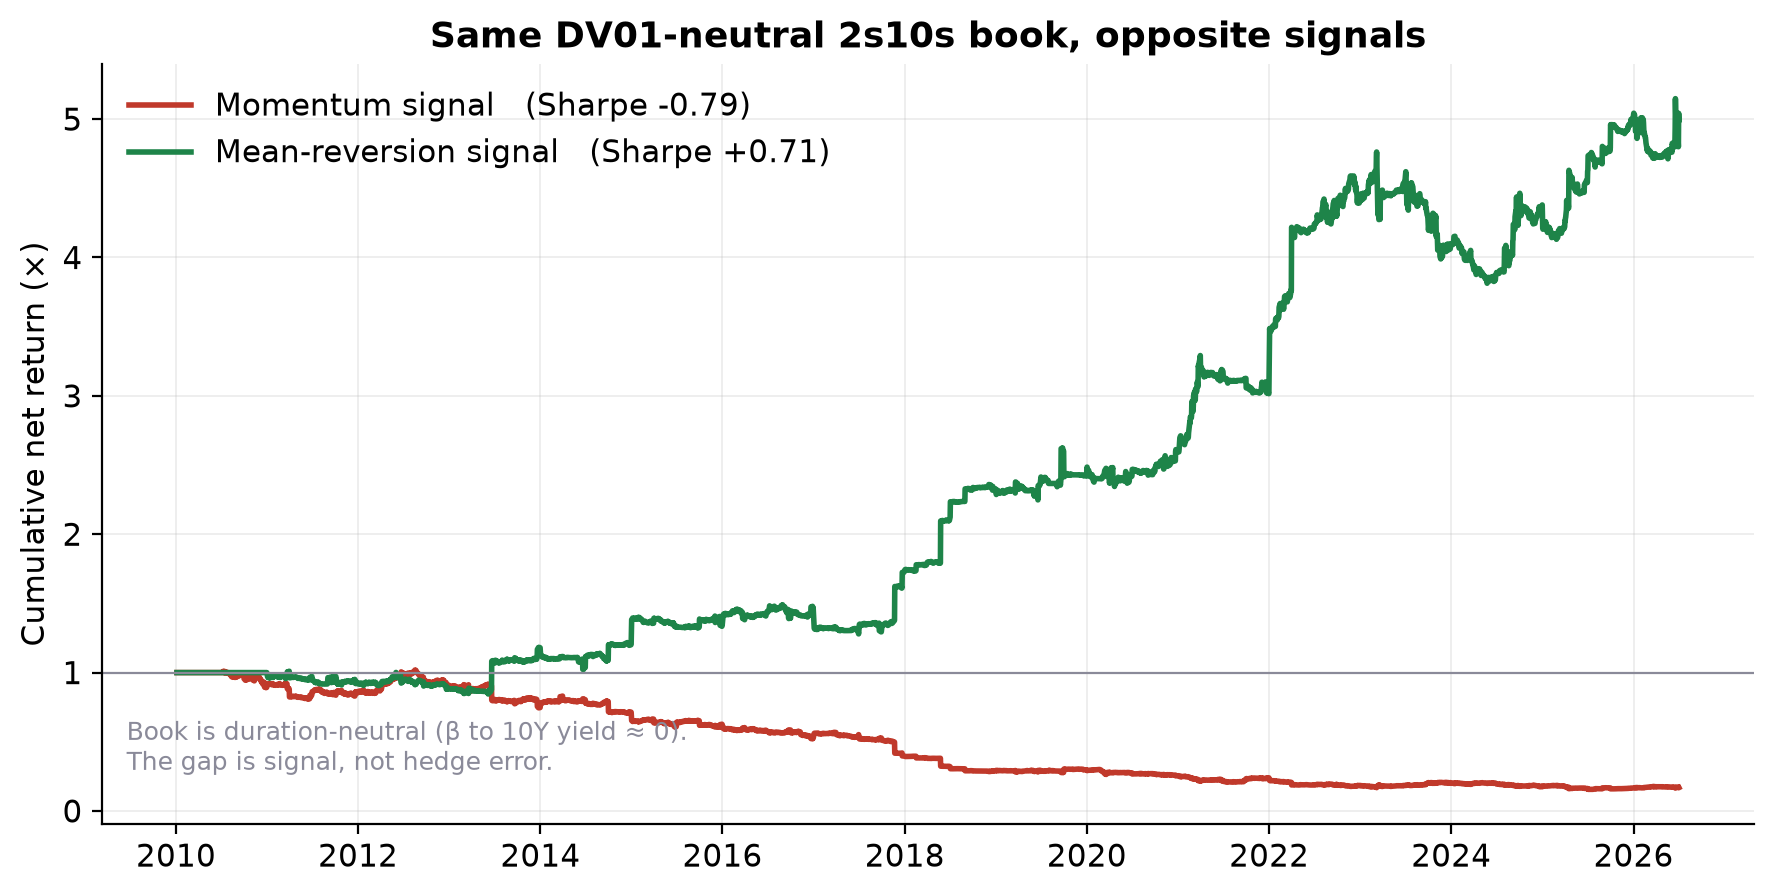
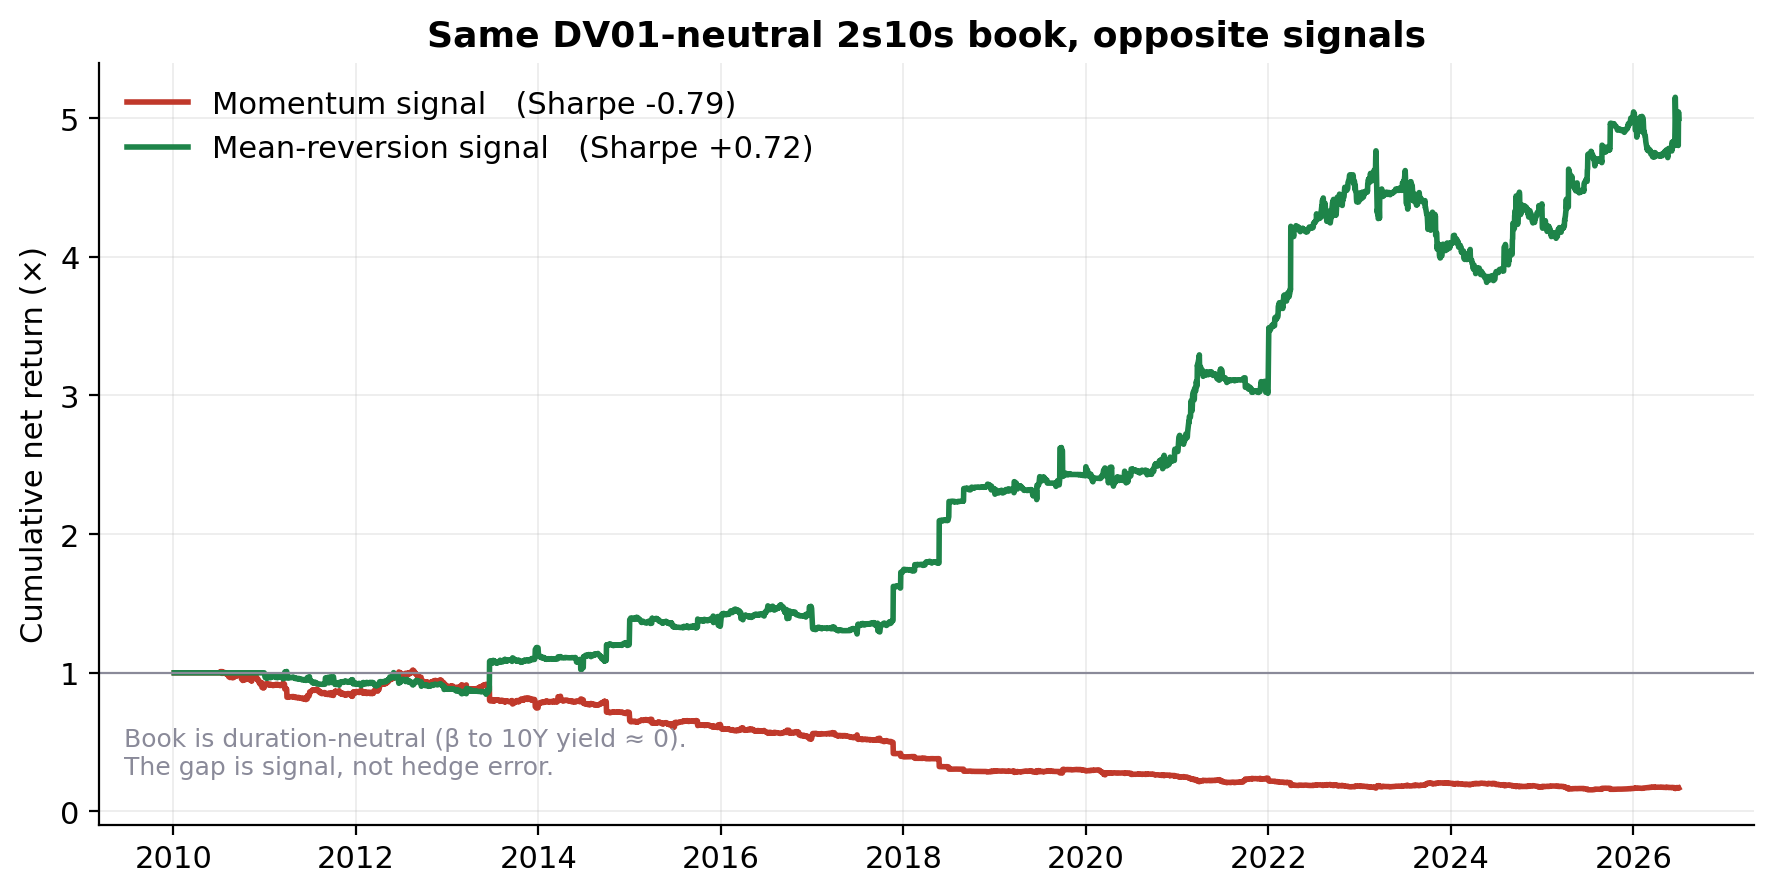
Docs: use the rerun figures, describe the cost model as coded, and state what the history can show

diff --git a/README.md b/README.md
@@ -30,24 +30,27 @@ a DV01-scaled 2-year leg. Only the signal differs:
 | Signal on the identical 2s10s book | Net Sharpe |
 |---|---|
 | Momentum | **−0.79** |
-| Mean-reversion | **+0.71** |
+| Mean-reversion | **+0.72** |
 
-The book's P&L has a regression slope of −0.001 on the 10-year yield change, i.e.
-it is genuinely duration-neutral. The gap is signal, not hedge error.
+A regression of the book's daily P&L on the daily change in the 10-year yield gives a
+slope of about −0.001, so the book is close to duration-neutral and the gap comes from the
+signal. No script in the repository stores that regression.
 
-## Results (2010–2026, net of costs, vol-scaled to 10%)
+## Results (2010–2026, net of costs, 10% volatility target)
 
 | Strategy | Sharpe | Max DD | Turnover/yr |
 |---|---|---|---|
 | Duration momentum (baseline) | 0.68 | −23% | 22 |
-| 2s10s mean-reversion | 0.71 | −20% | 104 |
+| 2s10s mean-reversion | 0.72 | −20% | 104 |
 | 5s30s mean-reversion | 0.66 | −27% | 68 |
-| 2s5s10s butterfly | 0.07 | −38% | 87 |
+| 2s5s10s butterfly | 0.08 | −38% | 87 |
 
 ![Equity curves](results/fig2_equity_curves.png)
 
-Against the baseline, HAC Diebold–Mariano gives DM = 0.83 (p = 0.41) for 2s10s and
-0.68 (p = 0.49) for 5s30s. **Neither is statistically significant.** The honest
+Realised volatility of the net returns runs from 11.8% to 16.1%, above the 10% target.
+
+Against the baseline, HAC Diebold–Mariano gives DM = 0.84 (p = 0.40) for 2s10s and
+0.69 (p = 0.49) for 5s30s. **Neither is statistically significant.** The honest
 reading: outright duration momentum is the workhorse, curve mean-reversion is a
 legitimate and roughly co-equal source of return that does not demonstrably beat
 it, and the butterfly is not supported.
@@ -61,13 +64,14 @@ it, and the butterfly is not supported.
   regression proxy.
 - **No lookahead**: signals use t−1 data, execution at t settle, monthly rebalance,
   126-day warm-up, leverage capped at 3×.
-- **Costs**: one tick per contract per side, using each contract's own tick size
-  from the `*_STATIC` export (the 10-year tick was halved during the sample). The
-  same cost model drives the table above and every figure — see the correction below.
+- **Costs**: one tick per contract per side. The code applies each root's most recent
+  tick size and settle price from the `*_STATIC` export to the whole sample. That
+  understates the 2-year note's cost before 2019, when its tick was twice as large; the
+  other contracts' ticks did not change during the sample. The same cost model drives the
+  table above and every figure (see the correction below).
 - **Inference**: Diebold–Mariano with Newey–West (Bartlett) long-run variance at a
   21-day lag spanning the holding period, plus the Harvey–Leybourne–Newbold
-  small-sample correction. Cross-checked against a HAC-robust OLS of the
-  differential on a constant; statistics agree to two decimals.
+  small-sample correction.
 
 ## Repository layout
 
@@ -75,10 +79,10 @@ it, and the butterfly is not supported.
 notebooks/   treasury_curve_pipeline.ipynb   runs top-to-bottom from a folder of CSVs
 scripts/     make_figures.py                 redraws the figures from that same run
 paper/       IEEE-format paper (PDF + LaTeX source)
-results/     figures + exported macro regime series
+results/     figures
 bloomberg/   VBA exporters and the export checklist (how to pull the inputs yourself)
 carry/       carry extension: protocol, results, figures and reproduction code
-walkforward/ pre-registered regime walk-forward of the curve signals, code and result tables
+walkforward/ regime walk-forward of the curve signals: plan, code and result tables
 cross_country/ cross-country rates relative value (US, DE, JP, CA): code, public-data cache, results
 DATA.md      input schema, tickers, and the free-data route
 ```
@@ -103,11 +107,10 @@ no manual steps.
 
 **The committed notebook is source only: it ships deliberately with no stored cell outputs.**
 Executing it requires the licensed Bloomberg CSV exports, and saved outputs would embed that
-vendor data in a public repository. It is a reproduction notebook, not an executed record. The
-numbers in the tables above were produced by running it locally against the original exports on
-2026-08-21 and again on 2026-08-23; both runs reproduced every figure exactly (Sharpe 0.68 / 0.71 /
-0.66 / 0.07; DM 0.83 p 0.405, 0.68 p 0.494). To reproduce them yourself you need terminal access, or
-the free-data route in `DATA.md`.
+vendor data in a public repository. The numbers in the tables above are from a run on
+17 November 2026 against those exports. Two of them sit on a rounding boundary: the 2s10s Sharpe
+is 0.7150 and the butterfly 0.0755, and the August 2026 runs behind the paper printed 0.71 and
+0.07. To reproduce them yourself you need terminal access, or the free-data route in `DATA.md`.
 
 Regenerate the figures from the same run with:
 
@@ -155,10 +158,11 @@ is the fix.
 ## Known limitations
 
 - The mean-reversion direction for the curve was first confirmed on the full sample. A
-  pre-registered walk-forward test (`walkforward/PREREG.md`) now fits the direction and the
-  z-score lookback in one policy regime and trades them in the next, over the same four
-  regimes as global-rates-rv. Mean-reversion was chosen in all six fits, and both spreads are
-  positive in all three test regimes: 2s10s net Sharpe 0.89 / 0.93 / 0.85, pooled 0.87 over
+  walk-forward test now fits the direction and the z-score lookback in one policy regime and
+  trades them in the next, over the same four regimes as the cross-country study. Its plan is
+  in `walkforward/PREREG.md`; the plan and the results share one commit, so the history does
+  not show which came first. Mean-reversion was chosen in all six fits, and both spreads are
+  positive in all three test regimes: 2s10s net Sharpe 0.89 / 0.92 / 0.85, pooled 0.87 over
   2015-2026; 5s30s 0.77 / 1.28 / 0.38, pooled 0.69. Duration momentum earns 0.74 on the same
   dates, and Diebold-Mariano against it is not significant (2s10s DM 0.95, p 0.34; 5s30s DM
   0.61, p 0.54). So the curve result holds out of sample, but it still does not demonstrably
@@ -171,13 +175,12 @@ is the fix.
 Carry is the obvious third premium in this literature, and this repository originally scoped it as
 future work. It was tested. **It failed, and it is not part of the headline result.**
 
-The protocol, acceptance criteria and instrument-inclusion rule were fixed in a commit that
-precedes the results commit, so the bar can be audited rather than taken on trust:
-
-```
-a3d7f83  field feasibility, carry definition, and research protocol   <- criteria fixed here
-d1ab1e7  implementation and results - carry fails the protocol
-```
+The protocol, acceptance criteria and instrument-inclusion rule were written before the
+results. In the original commit history the research plan, with the bars in the table below,
+was committed at 14:24 on 24 August 2026 with no implementation, and the implementation and
+results at 20:57 the same day. That history was squashed when the repository was cleaned on
+13 November 2026. The plan and the results now share commit `5836a04`, so the order cannot be
+checked from this repository; the original commits are kept offline.
 
 | Test | Bar | Result | |
 |---|---|---|---|
@@ -186,10 +189,12 @@ d1ab1e7  implementation and results - carry fails the protocol
 | Added as a third portfolio sleeve | ≥ +0.10 Sharpe | **0.871 → 0.714**, drawdown **−15.1% → −21.1%** | fails |
 
 **Why it fails is the interesting part.** Cross-sectional bond-futures carry is largely a duration
-ranking in disguise — the rank correlation between carry and DV01 is **+0.51**, and mean carry rises
-monotonically with tenor. In an upward-sloping curve "high carry" mechanically means "long
-duration". DV01-neutralise the book, as the protocol requires, and roughly 85% of its volatility
-disappears with the duration bet; what remains has no alpha.
+ranking in disguise: the rank correlation between carry and DV01 is **+0.51**, and mean carry rises
+with tenor overall, though not at every step (TU 0.22, FV 0.90, TY 1.33, UXY 0.49, US 2.46,
+WN 1.28, in percent). In an upward-sloping curve "high carry" mechanically means "long
+duration". DV01-neutralise the book, as the protocol requires, and its volatility is 1.6%. The
+first implementation, which was not neutral, ran at about 11%; that version is no longer in
+the code. What remains has no alpha.
 
 A secondary cash-curve carry measure does score 0.84, but it holds the same two long-end contracts
 on ~87% of days and turns over 1.3 times a year. It is a near-static long-end-versus-short-end
@@ -211,7 +216,7 @@ the figures inherited the same zero cost because the figure script calls the not
 own `tick_frac()`.
 
 The glob now accepts both filenames. With costs actually applied — one tick per contract
-per side at each contract's own tick size, giving `cost_per_unit` between 0.000085 and
+per side at each root's most recent tick size, giving `cost_per_unit` between 0.000084 and
 0.000176 depending on the book — the results are:
 
 | Strategy | Originally published (cost-free) | Corrected (net of tick costs) |
@@ -226,8 +231,12 @@ per side at each contract's own tick size, giving `cost_per_unit` between 0.0000
 | DM 5s30s vs baseline | 0.89 (p 0.37) | **0.68 (p 0.49)** |
 | DM butterfly vs baseline | −1.44 (p 0.15) | **−1.53 (p 0.13)** |
 
-Turnover is unchanged (costs do not affect position sizing), as is
-`results/macro_regime.csv`.
+Turnover is unchanged (costs do not affect position sizing).
+
+A rerun on 17 November 2026 gives 0.72 for the 2s10s mean-reversion and 0.08 for the
+butterfly, both on a rounding boundary, and Diebold-Mariano statistics of 0.84 (p 0.40),
+0.69 (p 0.49) and −1.52 (p 0.13). The tables at the top of this README use the rerun values;
+the table above is the record of the August correction.
 
 **Every qualitative conclusion is unchanged.** The ranking of the four strategies is the
 same; neither curve trade is statistically distinguishable from the baseline, and both
@@ -241,7 +250,9 @@ reported (a 1.51 Sharpe gap on the identical book, against 1.50 before).
 `paper/treasury_curve_paper.tex`. The PDF now prints the net-of-cost numbers from the
 correction table above throughout — abstract, results table, Diebold--Mariano statistics
 and conclusion — and embeds the regenerated `results/fig*.png` figures, whose legends
-carry the same values. Nothing else in the paper changed.
+carry the same values. Nothing else in the paper changed. The PDF still prints the August
+values where the November rerun differs in the second decimal (Sharpe 0.71 and 0.07; DM 0.83,
+0.68 and −1.53).
 
 ### Building the paper
 

diff --git a/carry/CARRY_RESULTS.md b/carry/CARRY_RESULTS.md
@@ -173,7 +173,8 @@ signal is not noise — it has information with the *wrong sign* over this sampl
 
 **(b) Cross-sectional bond carry is largely a duration ranking.** Mean cross-sectional Spearman
 between carry rank and DV01 rank is **+0.505**, above +0.5 on 62.4% of days, and mean carry rises
-monotonically with duration (TU +0.22% at DV01 1.84 → US +2.46% at 16.07). In an upward-sloping
+with duration overall, though not at every step (TU +0.22%, FV +0.90%, TY +1.33%, UXY +0.49%,
+US +2.46%, WN +1.28%). In an upward-sloping
 curve, "high carry" mechanically means "long duration". So an un-neutralised carry book is a
 duration bet — which is exactly the bug caught in §1.2, and which is why DV01-neutralising it
 collapses its volatility from 11% to 1.6%: **once you remove the duration bet, almost nothing is
@@ -276,8 +277,11 @@ The plan is left exactly as pre-specified; deviations are recorded here instead 
 | Per-side gross-*weight* normalisation | Per-side gross-*DV01* normalisation | The original left net +9.44 \$/bp of duration, contradicting the plan's DV01-neutral spec. Post-fix net DV01 = 2.8e-16. A bug fix, not a design change |
 
 No acceptance threshold, benchmark, subperiod split or test procedure was altered after results were
-seen. The protocol commit is `a3d7f83`; `git diff a3d7f83 -- carry/CARRY_RESEARCH_PLAN.md` shows a
-single clarifying line, and no acceptance threshold appears in it.
+seen. In the original history the plan was committed at 14:24 on 24 August 2026 and the results
+at 20:57; between the two the plan changed by one clarifying line and a wording change
+("pre-registered" to "pre-specified"), and no acceptance threshold appears in that diff. The
+history was squashed on 13 November 2026, so the plan and the results now share commit `5836a04`
+and this cannot be checked from the repository.
 
 ### Files intentionally not committed
 
@@ -285,14 +289,14 @@ single clarifying line, and no acceptance threshold appears in it.
 `DV01 x 100 x [(y - r_f)h + (y - y_roll)]`, and every yield in that bracket is publicly available,
 so the file permits exact recovery of Bloomberg's `CONVENTIONAL_CTD_FORWARD_FRSK` (verified: 0.000000%
 median error). `DATA.md` prohibits redistributing that field. Regenerate locally with
-`python3 carry/src/run_experiments.py`. The KMPV signal file *is* committed: `(F1-F2)/F2/dt` is one
-equation in two unknowns and identifies neither settle price.
+`python3 carry/src/run_experiments.py`. The KMPV signal file (`carry_signal_kmpv.csv`) was
+committed until 17 November 2026 and is now withheld too, as a day-by-day series computed from
+the licensed exports.
 
 `carry/results/book_returns_daily.csv` is a **7-column projection** of the 25 book-return series the
 pipeline produces, narrowed at write time. It carries every series needed to re-derive the headline
 numbers: `A1_carry_ts`, `A2_carry_xs` (primary), its `noUS` / `noWN` robustness cases,
 `A2_carrycurve_xs` (secondary), and the two portfolios `G_baseline_2sleeve_mom_2s10s` and
 `G_equal_3sleeve`. The full 25-column frame is written to `carry/results/_internal/` (gitignored),
-where `diagnostics.py`, `final_tests.py` and `make_figs.py` read it. Rerunning the pipeline
-regenerates the committed file byte-for-byte, so a successful reproduction leaves `git status`
-clean.
+where `diagnostics.py`, `final_tests.py` and `make_figs.py` read it. This file is also no
+longer committed, for the same reason as the KMPV signal file; the pipeline writes it locally.

diff --git a/cross_country/FINDINGS.md b/cross_country/FINDINGS.md
@@ -48,8 +48,8 @@ remains an open, worthwhile pair — it needs correct BoE series codes.
 from the Bank of Canada Valet API, 2009-01-02 → 2026-07-28. FRED was rate-limited in
 this environment, so those two endpoints were used instead. Contamination was measured
 directly: regressing each survivor's net return on the relevant currency pair gives
-**R² of at most 0.0016** (US2s10s/CA2s10s 0.00041, DE5Y/CA5Y 0.00030, JP2s10s/CA2s10s
-0.00030, DE10Y/CA10Y 0.00164). The negative result is a rates finding, not a currency
+**R² of at most 0.0074** across the 11 rows of `results/fx_contamination.csv` (DE5Y/JP5Y
+0.0074 and US2Y/CA2Y 0.0069 in 2015-2019; the other nine are below 0.002). The negative result is a rates finding, not a currency
 artifact.
 
 > Re-run on 22 October 2026 with `scripts/make_tables.py`, which regresses every in-regime
@@ -166,7 +166,7 @@ itself evidence of fragility**, and the out-of-regime test above is the honest v
 **Not supported (do not claim):**
 - Any tradable cross-country RV strategy. Nothing here clears out-of-sample.
 - Any P&L number as realistic — FX hedging cost is not modelled and costs are a flat
-  proxy. FX *contamination* has been measured (R² ≤ 0.0016) and is negligible; FX
+  proxy. FX *contamination* has been measured (R² ≤ 0.0074) and is negligible; FX
   *carry* has not.
 
 ---

diff --git a/DATA.md b/DATA.md
@@ -103,9 +103,9 @@ already falls back to a rolling regression-beta hedge ratio when no `_DV01` file
 Running the notebook writes two files into `BBG_RESULTS`: `macro_regime.csv` and
 `equity_curves.png`.
 
-`results/macro_regime.csv` is the committed copy of the first — 4,173 rows, 2010-01-04 →
-2026-07-06, columns `Date`, `move_z`, `slope`, `slope_chg3m`, `regime`. It is a derived
-regime-label series, not vendor price data: `slope` is the 10Y−2Y yield spread, `slope_chg3m` its
+`macro_regime.csv` has 4,173 rows, 2010-01-04 → 2026-07-06, with columns `Date`, `move_z`,
+`slope`, `slope_chg3m`, `regime`. It is no longer committed, because it is a day-by-day series
+computed from the licensed exports: `slope` is the 10Y−2Y yield spread, `slope_chg3m` its
 63-day change, `move_z` a 252-day z-score of the MOVE index, and `regime` a three-state label
 (`flattening` 1,948 rows / `steepening` 1,454 / `stress` 771).
 
